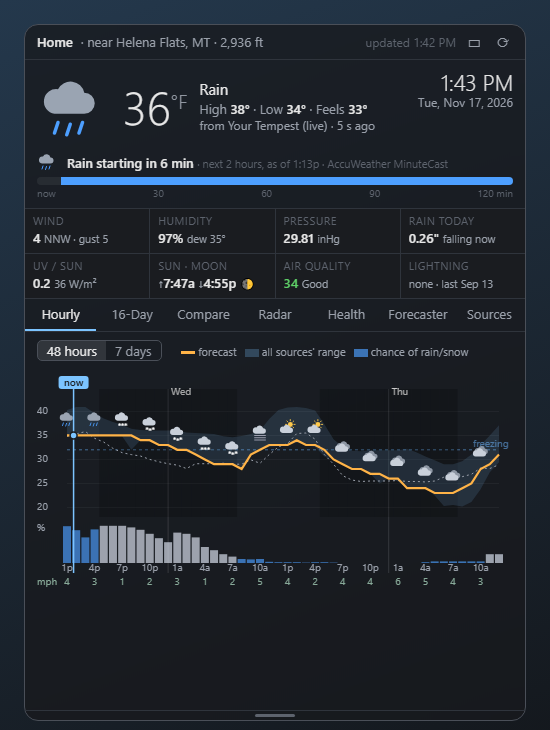
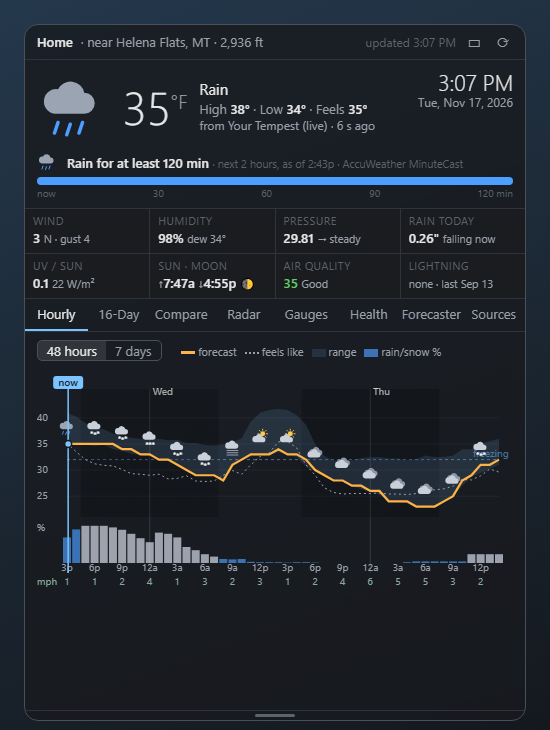
Hourly legend: add feels like (dotted), theme colours, shorter labels with hover explanations

diff --git a/panel.html b/panel.html
@@ -425,7 +425,7 @@ function renderHourly(force) {
   }
   s += `<line id="cur" y1="${top - 8}" y2="${bot - 18}" style="stroke:var(--ccur)" visibility="hidden"/>`;
   $("t-hourly").innerHTML = `<div><span class="seg" id="span"><span data-h="48" class="${hourSpan === 48 ? "on" : ""}">48 hours</span><span data-h="168" class="${hourSpan === 168 ? "on" : ""}">7 days</span></span>
-    <span class="legend"><i style="background:#ffb347"></i>forecast<i style="background:#7cc4ff44;height:8px"></i>all sources' range<i style="background:#4d9fffaa;height:8px"></i>chance of rain/snow</span></div>
+    <span class="legend"><i style="background:var(--ctemp)"></i>forecast<i style="height:0;border-top:2px dotted var(--cfeels)" title="Wind chill when cold and windy, heat index when hot and humid; otherwise the same as the temperature"></i><span title="Wind chill when cold and windy, heat index when hot and humid; otherwise the same as the temperature">feels like</span><i style="background:var(--cband);height:8px"></i><span title="The shaded band: the lowest to highest temperature any source forecasts for that hour">range</span><i style="background:var(--crainbar);height:8px"></i><span title="Bars: chance of rain or snow (white bars = snow)">rain/snow %</span></span></div>
     <svg id="hsvg" width="${W}" height="${bot}">${s}</svg>`;
   const svg = $("hsvg"), tip = $("tip");
   svg.onmousemove = e => {
